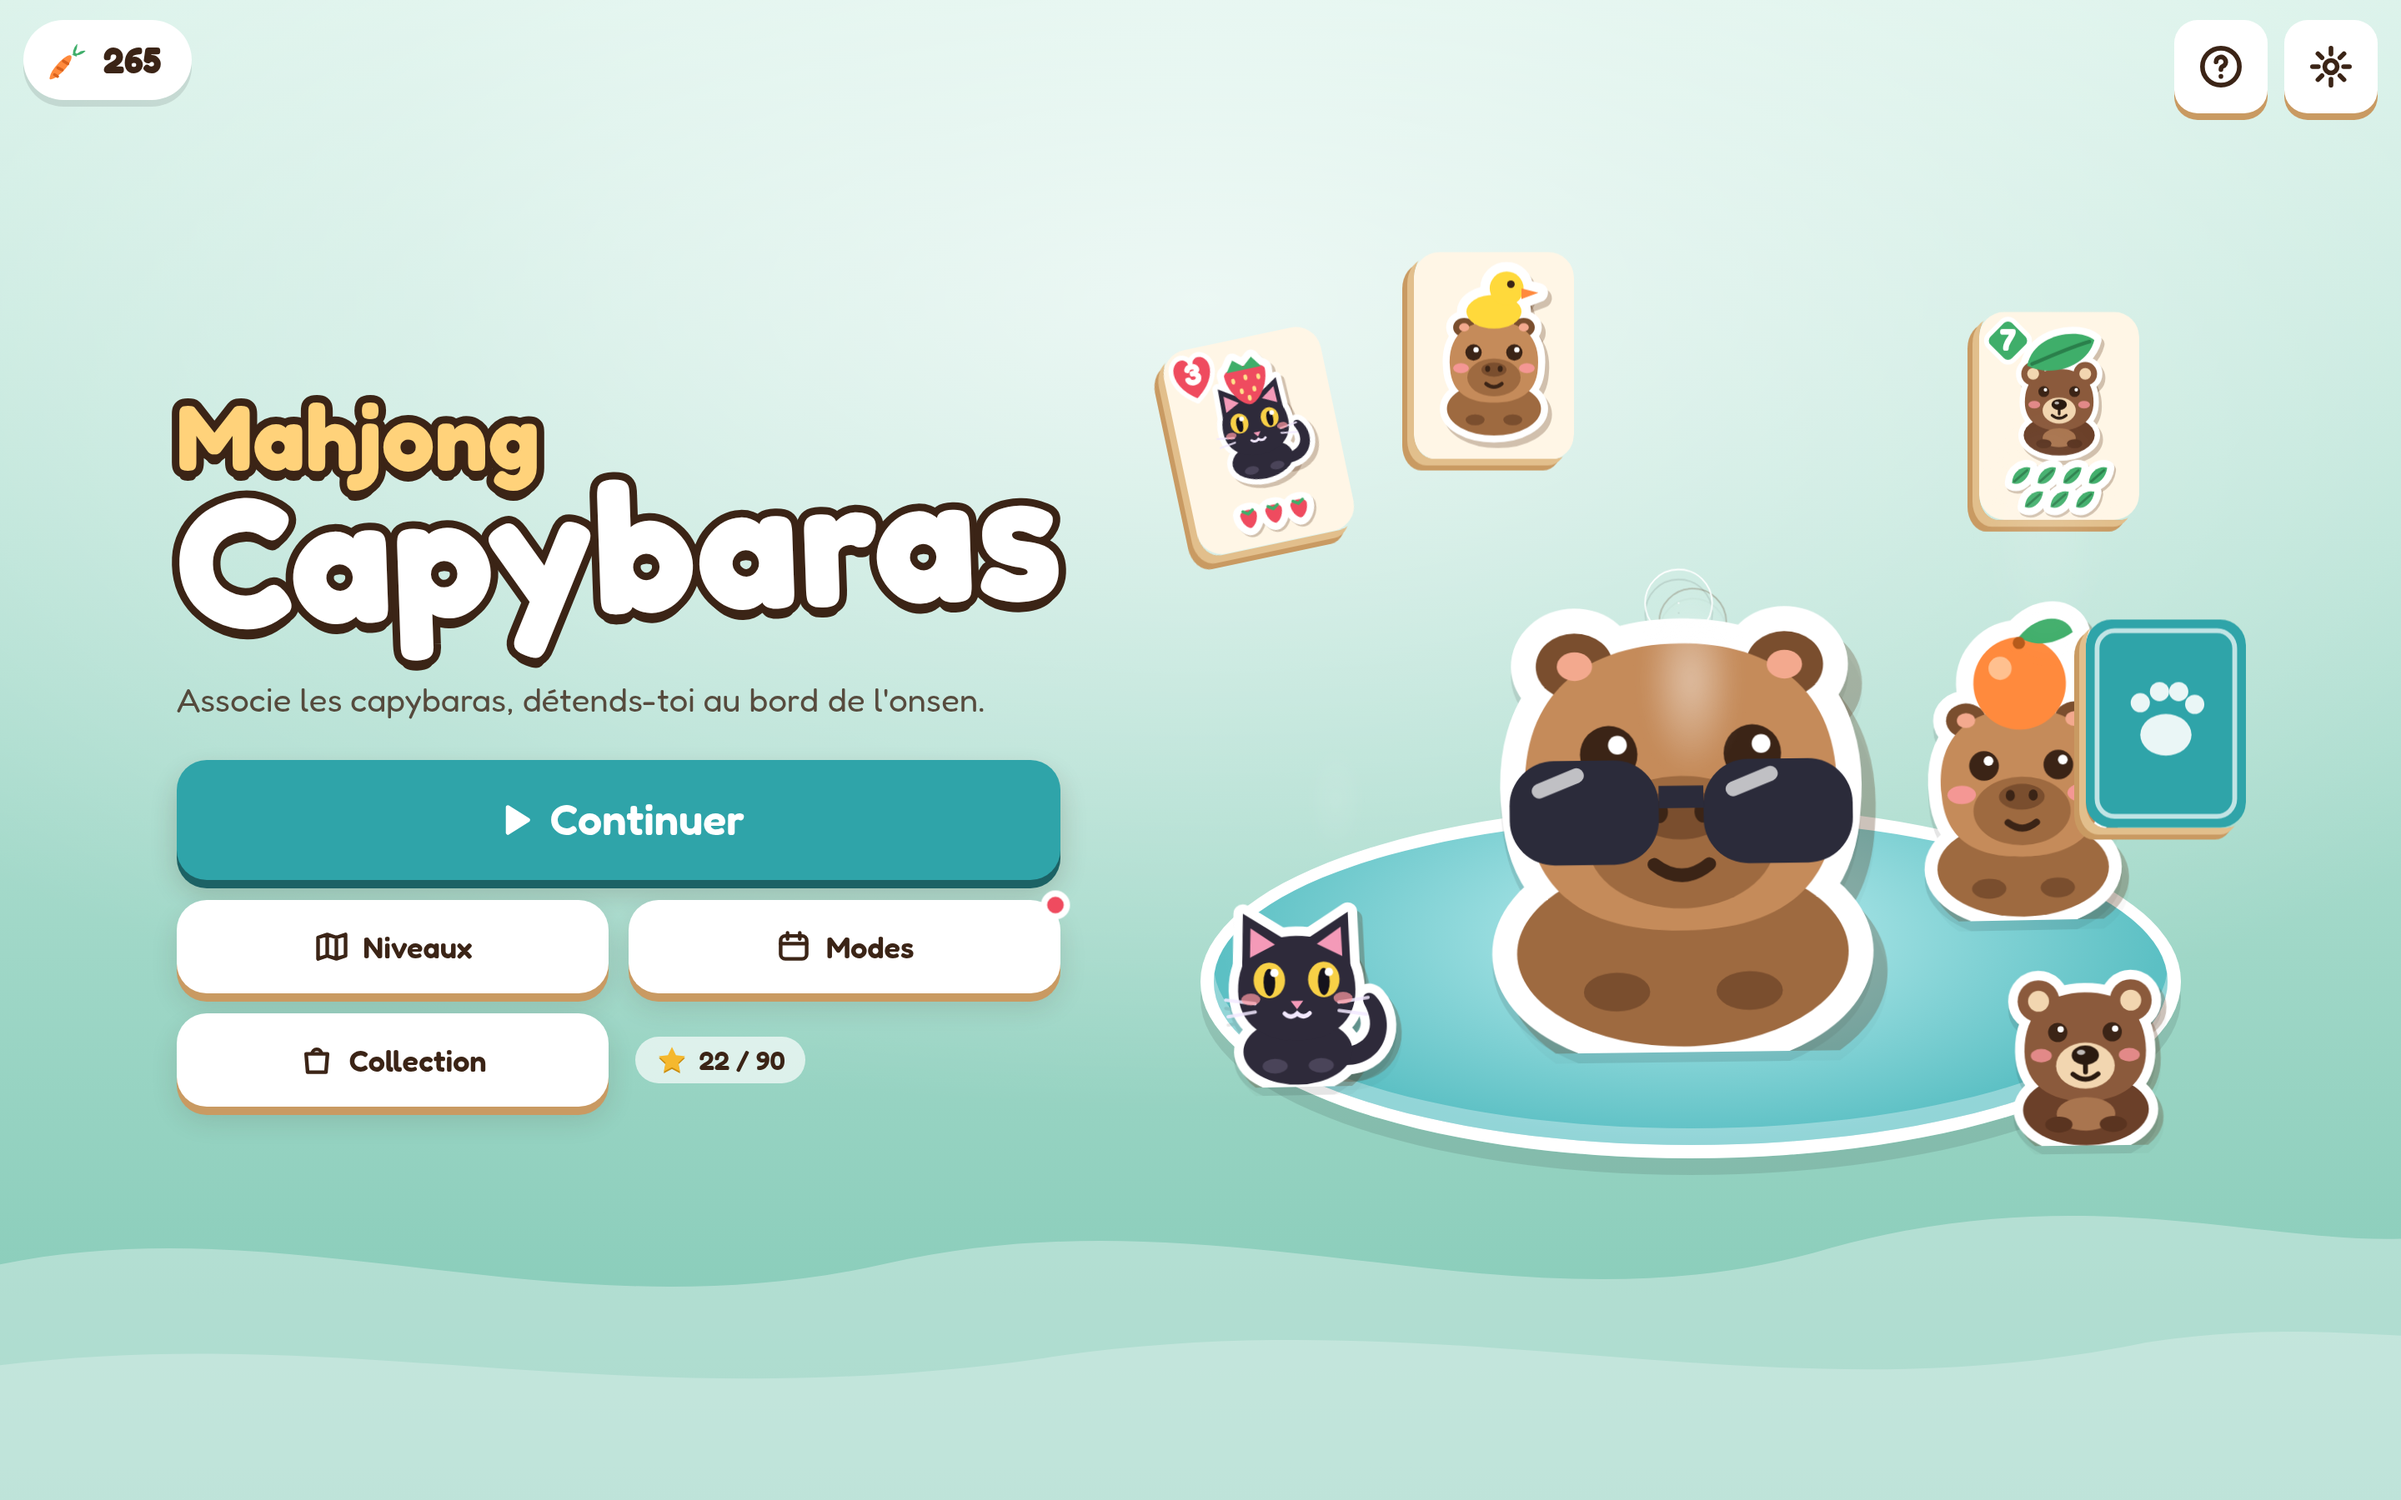
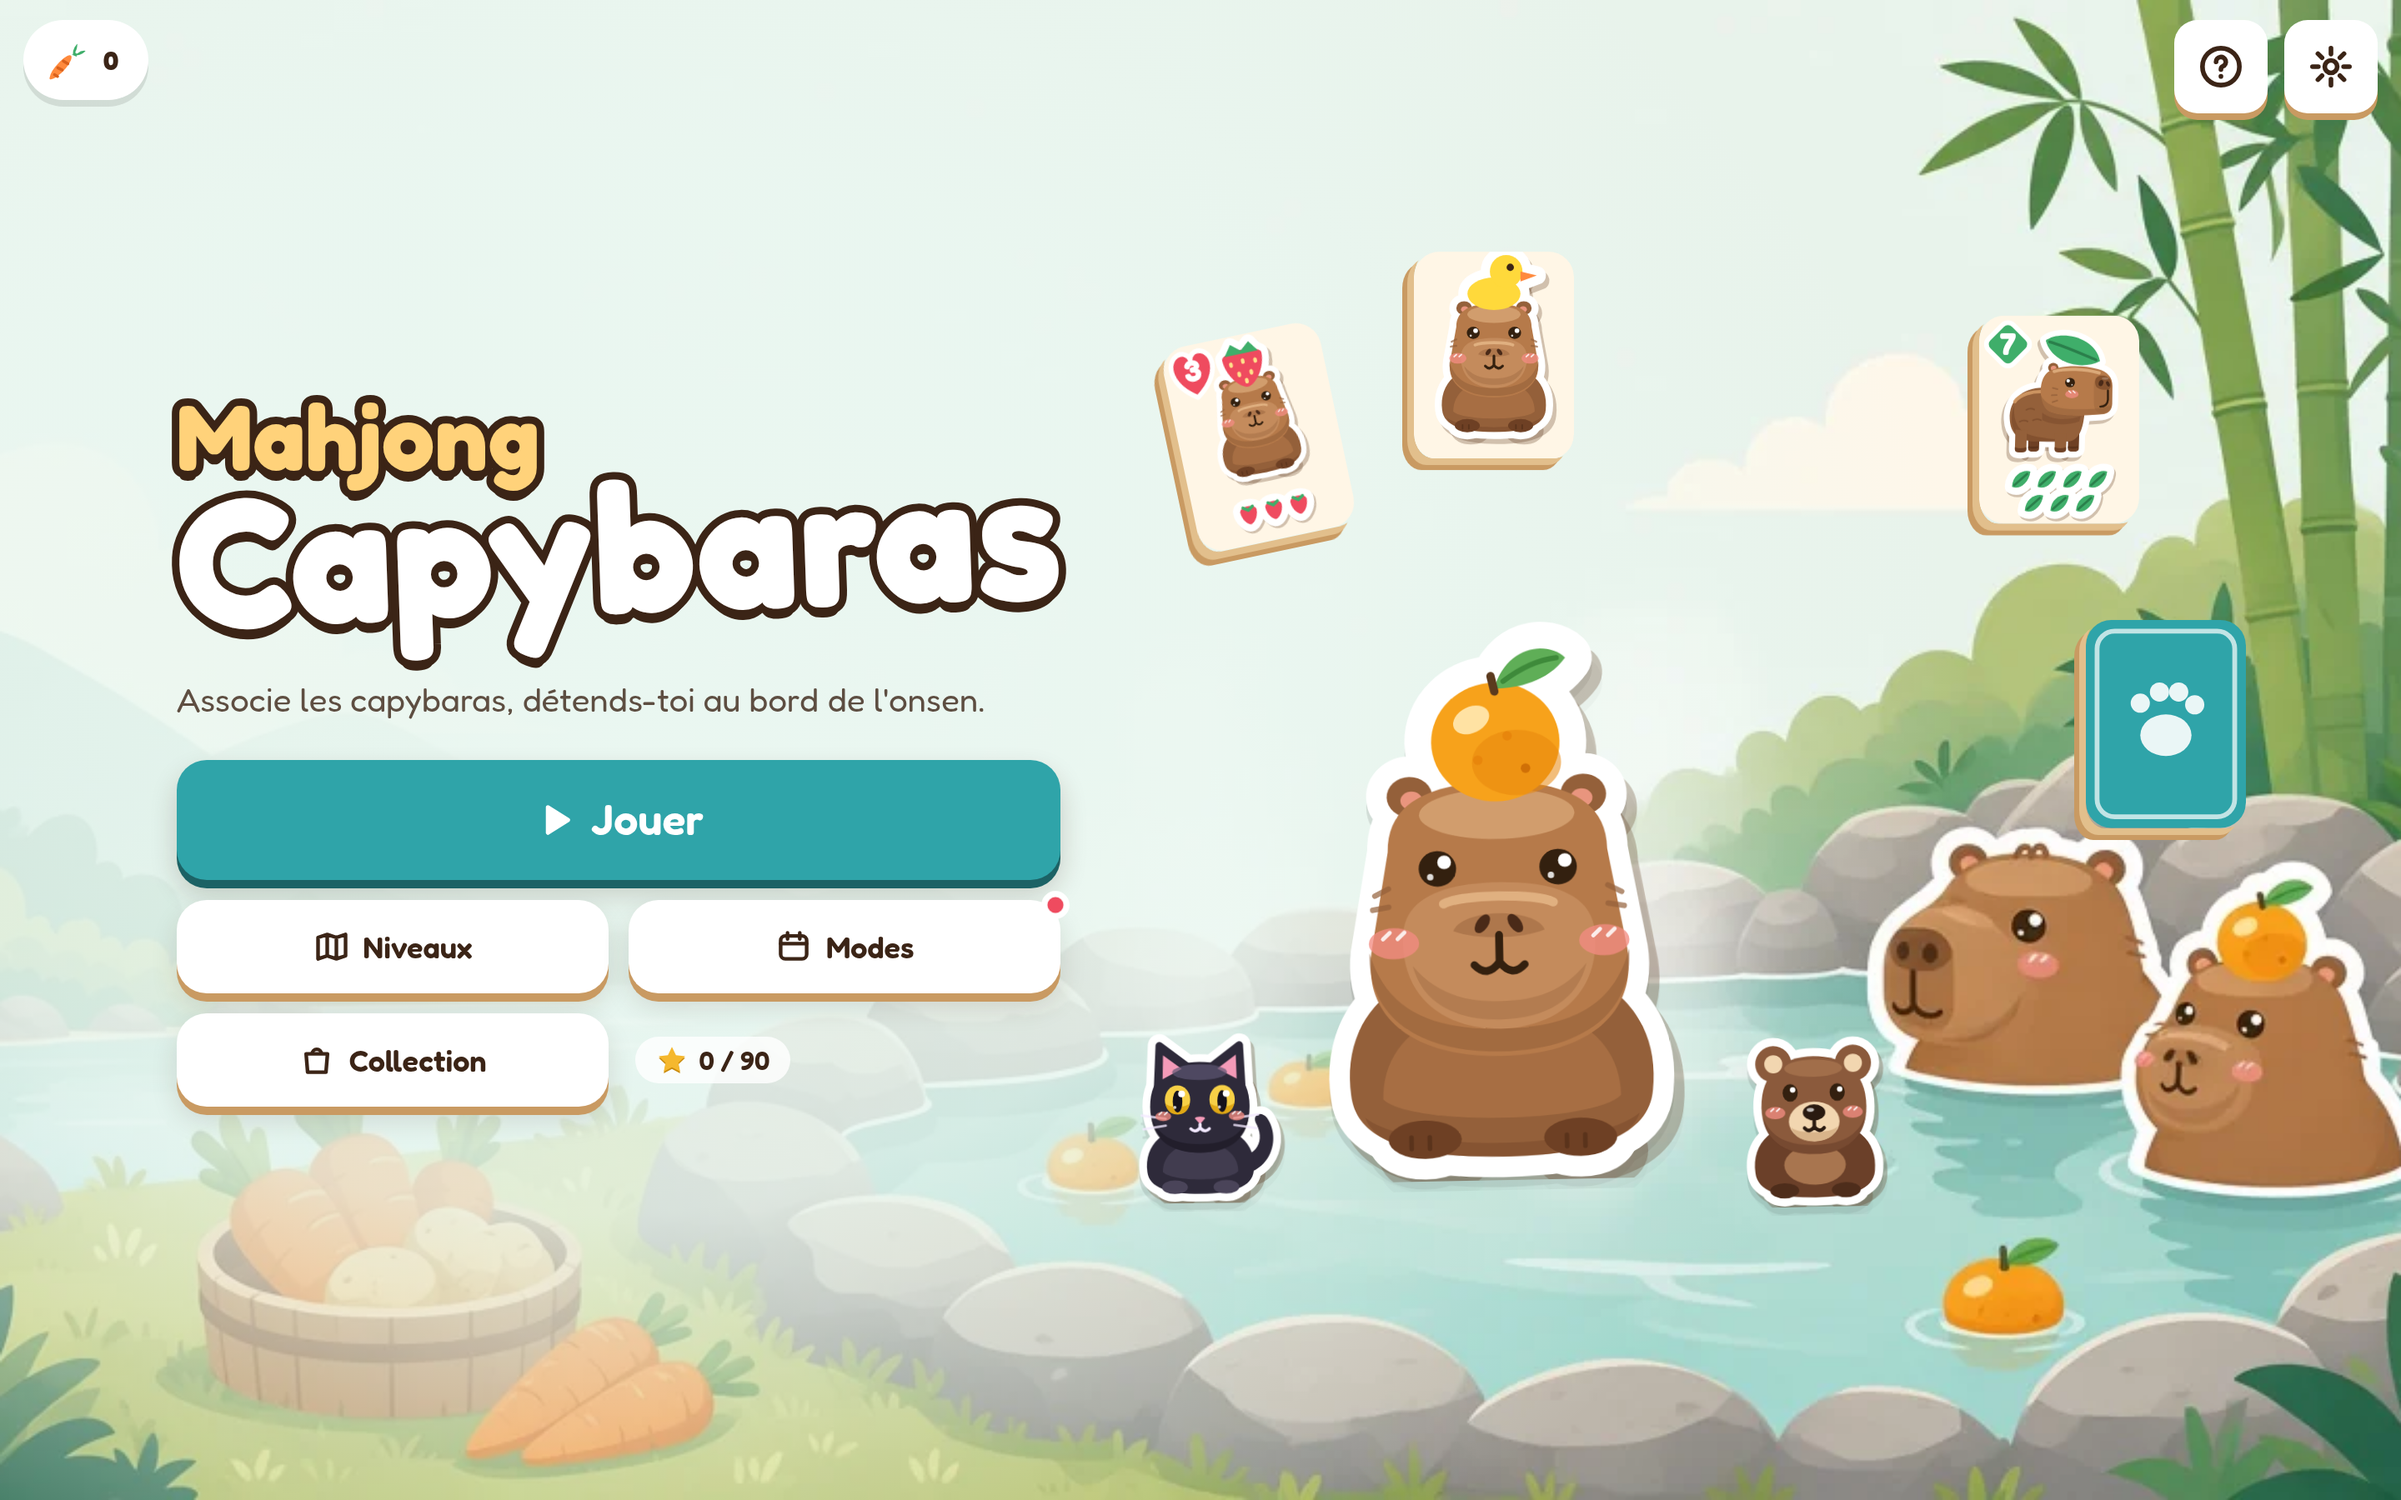
Accueil illustré (onsen IA en WebP, chargé en différé, hors ligne), image de partage 1200×630 et icônes avec la mascotte A

diff --git a/index.html b/index.html
@@ -3,7 +3,7 @@
 <title>Mahjong Capybaras</title>
 <meta name="description" content="Le mahjong solitaire le plus doux du web : associe les capybaras, 30 niveaux, 5 mondes, gratuit et sans pub.">
 <meta name="theme-color" content="#7FC8B4"><meta name="mobile-web-app-capable" content="yes"><meta name="apple-mobile-web-app-capable" content="yes"><meta name="apple-mobile-web-app-status-bar-style" content="black-translucent"><meta name="apple-mobile-web-app-title" content="Capybaras">
-<link rel="manifest" href="./manifest.webmanifest"><link rel="icon" type="image/png" href="./icons/favicon-48.png"><link rel="apple-touch-icon" href="./icons/apple-touch-icon.png">
-<meta property="og:title" content="Mahjong Capybaras"><meta property="og:description" content="Associe les capybaras. Gratuit, sans pub, jouable hors ligne."><meta property="og:image" content="./og-image.png"><meta property="og:type" content="website"><meta name="twitter:card" content="summary_large_image">
+<link rel="manifest" href="./manifest.webmanifest"><link rel="icon" type="image/png" sizes="32x32" href="./icons/favicon-32.png"><link rel="icon" type="image/png" sizes="48x48" href="./icons/favicon-48.png"><link rel="apple-touch-icon" href="./icons/apple-touch-icon.png">
+<meta property="og:title" content="Mahjong Capybaras"><meta property="og:description" content="Associe les capybaras. Gratuit, sans pub, jouable hors ligne."><meta property="og:url" content="https://tonimalt-af.github.io/capy-mahjong/"><meta property="og:image" content="https://tonimalt-af.github.io/capy-mahjong/og-image.jpg"><meta property="og:image:type" content="image/jpeg"><meta property="og:image:width" content="1200"><meta property="og:image:height" content="630"><meta property="og:image:alt" content="Mahjong Capybaras : un capybara avec un yuzu sur la tête au bord d'un onsen"><meta property="og:locale" content="fr_FR"><meta property="og:site_name" content="Mahjong Capybaras"><meta property="og:type" content="website"><meta name="twitter:card" content="summary_large_image"><meta name="twitter:image" content="https://tonimalt-af.github.io/capy-mahjong/og-image.jpg"><link rel="canonical" href="https://tonimalt-af.github.io/capy-mahjong/">
 <style>html,body{background:#BFE6D9;margin:0}</style>
 </head><body><div id="app"></div><script type="module" src="/src/main.ts"></script></body></html>

diff --git a/e2e/game.spec.ts b/e2e/game.spec.ts
@@ -64,5 +64,12 @@ test('PWA: manifest and service worker', async ({ page }) => {
 });
 test('offline: game still loads after first visit', async ({ page, context }) => {
   await page.waitForFunction(async () => !!(await navigator.serviceWorker.getRegistration())?.active, null, { timeout: 10000 });
-  await expect(async () => { await page.reload(); expect(await page.evaluate(() => !!navigator.serviceWorker.controller)).toBe(true); }).toPass({ timeout: 20000 }); await context.setOffline(true); await page.reload(); await expect(page.locator('.logo')).toBeVisible(); await context.setOffline(false);
+  await expect(async () => { await page.reload(); expect(await page.evaluate(() => !!navigator.serviceWorker.controller)).toBe(true); }).toPass({ timeout: 20000 }); await context.setOffline(true); await page.reload(); await expect(page.locator('.logo')).toBeVisible(); await expect(page.locator('body')).toHaveClass(/home-art/); await context.setOffline(false);
+});
+test('home illustration lazy-loads and share/icon assets exist', async ({ page }) => {
+  await expect(page.locator('body')).toHaveClass(/home-art/, { timeout: 8000 });
+  const bg = await page.evaluate(() => getComputedStyle(document.getElementById('v-home')!, '::before').backgroundImage); expect(bg).toContain('home-bg.webp');
+  const og = await page.locator('meta[property="og:image"]').getAttribute('content'); expect(og).toBe('https://tonimalt-af.github.io/capy-mahjong/og-image.jpg');
+  for (const u of ['/og-image.jpg', '/home-bg.webp', '/icons/favicon-32.png', '/icons/icon-512.png', '/icons/apple-touch-icon.png']) expect((await page.request.get(u)).status(), u).toBe(200);
+  expect(await (await page.request.get('/sw.js')).text()).toContain('home-bg.webp');
 });

diff --git a/src/main.ts b/src/main.ts
@@ -517,4 +517,8 @@ if (deep.has('level')) startLevel(Math.min(LEVELS.length - 1, +deep.get('level')
 else if (deep.get('mode') === 'daily') { const k = deep.get('day'); startPlay(k && /^\d{4}-\d\d-\d\d$/.test(k) && k < dayKey() ? dailyLevel(k, true) : dailyLevel()); }
 else if (deep.get('mode') === 'zen') { const z = zenLevel(+(deep.get('seed') ?? 1), (DIFFS.some((d) => d.id === deep.get('diff')) ? deep.get('diff') as Diff : 'moyen')); const lay = deep.get('layout'); startPlay(lay && LAYOUTS[lay] ? { ...z, layout: lay, title: `Zen · ${LAYOUTS[lay].name}`, legend: deep.has('legend') ? 1 : z.legend } : z); }
 else if (deep.get('mode') === 'endless') startPlay(endlessLevel(+(deep.get('round') ?? 0), endlessSeed));
+// Home illustration: lazy-loaded after first paint (decoded off the critical path), then faded in.
+const HOME_BG = new URL(`${import.meta.env.BASE_URL}home-bg.webp`, document.baseURI).href;
+const loadHomeBg = () => { const im = new Image(); im.decoding = 'async'; im.src = HOME_BG; im.decode().then(() => { document.documentElement.style.setProperty('--home-bg', `url("${HOME_BG}")`); document.body.classList.add('home-art'); }).catch(() => {}); };
+if (document.readyState === 'complete') setTimeout(loadHomeBg, 50); else addEventListener('load', () => setTimeout(loadHomeBg, 50));
 if (import.meta.env.PROD && 'serviceWorker' in navigator) addEventListener('load', () => navigator.serviceWorker.register('./sw.js').catch(() => {}));

diff --git a/src/style.css b/src/style.css
@@ -374,3 +374,15 @@ button.wallet{border:0;font:inherit;color:inherit}
   .btn.calbtn{min-height:34px;padding:4px 10px;font-size:13px}.btn.calbtn .ic{width:16px;height:16px}
   .calnav{width:24px;height:24px;font-size:16px}
 }
+
+/* ===== Phase 7: illustrated home ===== */
+#v-home::before{content:"";position:absolute;inset:0;background:var(--home-bg) 50% 80%/cover no-repeat;opacity:0;transition:opacity .6s ease;pointer-events:none}
+#v-home::after{content:"";position:absolute;inset:0;pointer-events:none;opacity:0;transition:opacity .6s ease;background:radial-gradient(ellipse 58% 70% at 24% 46%,#EAF7F1f0 0%,#EAF7F1cc 50%,#EAF7F100 100%)}
+.home-art #v-home::before,.home-art #v-home::after{opacity:1}
+#v-home>.home{z-index:1}
+.home-art .home-r .pool,.home-art .hero-capy.small,.home-art .hero-steam{display:none}
+.home-art .hero-capy{width:48%;left:8%;bottom:2%}
+.home-art .hero-friend.f-bear{width:19%;left:52%;bottom:-1%}.home-art .hero-friend.f-cat{width:18%;left:-5%;bottom:0}
+.home-art .total{background:#fffc}
+@media (orientation:portrait){#v-home::before{background-position:70% 100%}#v-home::after{background:linear-gradient(180deg,#EAF7F1f2 0%,#EAF7F1cc 55%,#EAF7F100 85%)}}
+@media (prefers-reduced-motion:reduce){#v-home::before,#v-home::after{transition:none}}

diff --git a/e2e/features.spec.ts b/e2e/features.spec.ts
@@ -43,6 +43,7 @@ test('zen: no timer/score, unlimited hints & shuffles', async ({ page }) => {
 test('combo indicator lives in the HUD, never over the board', async ({ page }) => {
   await seed(page); await page.goto('/?level=6'); await G(page).pairs(4);
   const c = page.locator('#g-combo'); await expect(c).toBeVisible(); await expect(c).toContainText('Combo ×');
+  await c.evaluate((el) => Promise.all(el.getAnimations().map((a) => a.finished))); // measure at rest, not mid-bump
   const [cb, sb] = [await c.boundingBox(), await page.locator('#stage').boundingBox()];
   const overlap = cb!.x < sb!.x + sb!.width && cb!.x + cb!.width > sb!.x && cb!.y < sb!.y + sb!.height && cb!.y + cb!.height > sb!.y; expect(overlap).toBe(false);
   await expect(page.locator('.toast.show')).toHaveCount(0);

diff --git a/README.md b/README.md
@@ -32,3 +32,8 @@ npm run build      # dist/ + service worker
 3. Le workflow `.github/workflows/deploy.yml` teste, build et publie. URL : `https://<user>.github.io/<repo>/` (chemins relatifs, aucun réglage de base nécessaire).
 
 Liens directs : `?level=N` (0–29), `?mode=daily`, `?mode=zen&diff=expert`, `?mode=zen&layout=chat`. Planche artistique : `art.html`.
+
+## Visuels
+- Fond de l'accueil : illustration IA (`assets-src/home-bg.jpg`) convertie en `public/home-bg.webp`, chargée après le premier affichage et mise en cache hors ligne par le service worker.
+- Icônes, favicon et image de partage (`public/og-image.jpg`, 1200×630) : `node scripts/icons.mjs` (mascotte A dessinée en SVG).
+- Aperçus : `previews/` (scripts dans `scripts/mascot/`).

diff --git a/assets-src/README.md b/assets-src/README.md
@@ -1,0 +1,1 @@
+Source of public/home-bg.webp (AI-generated illustration, converted with Pillow, WebP q86).
